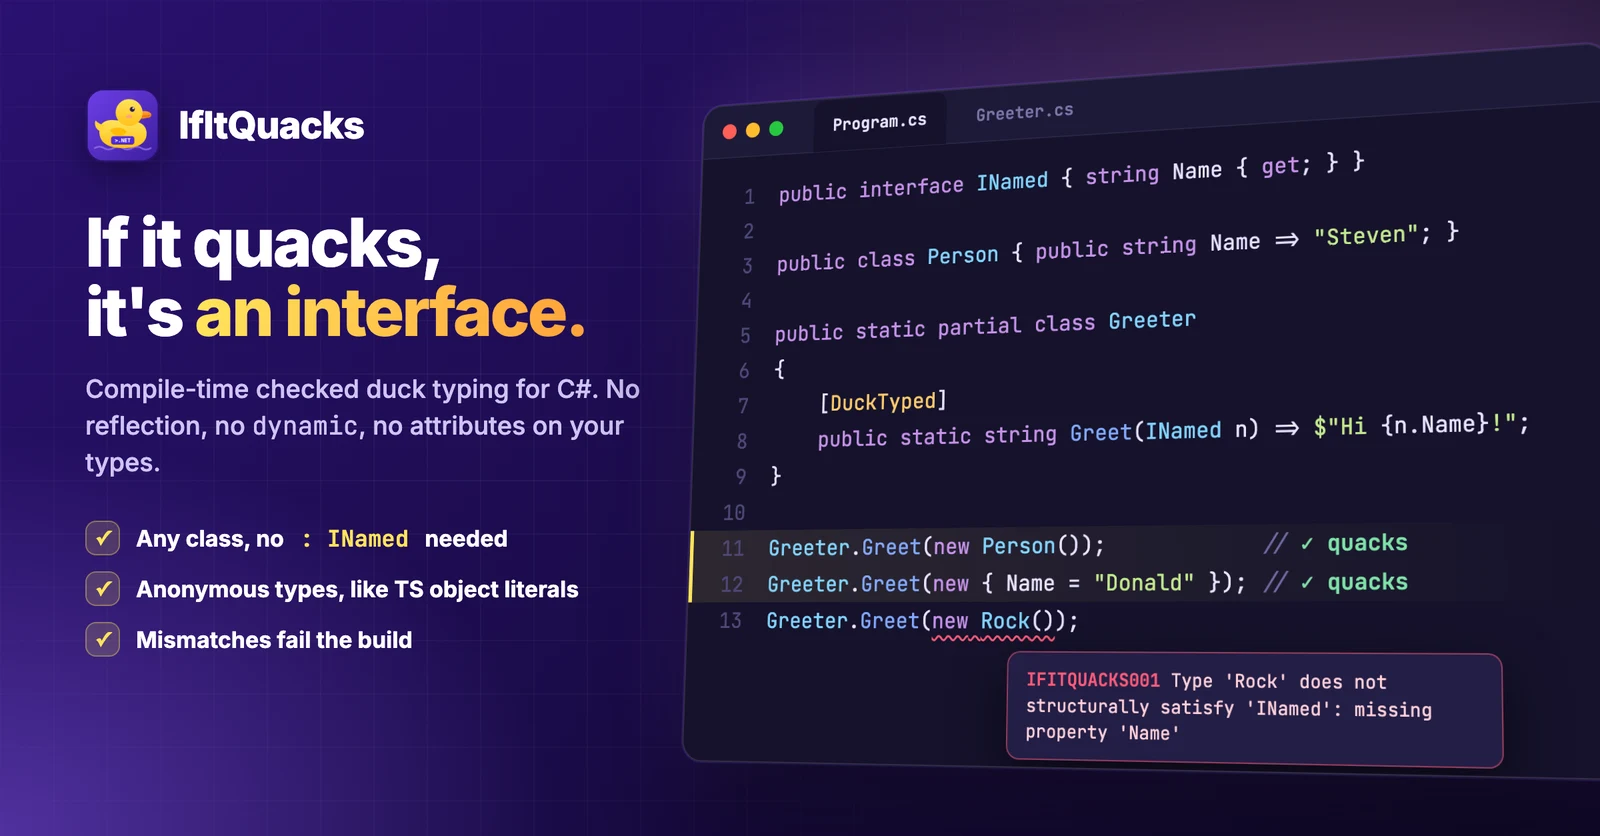
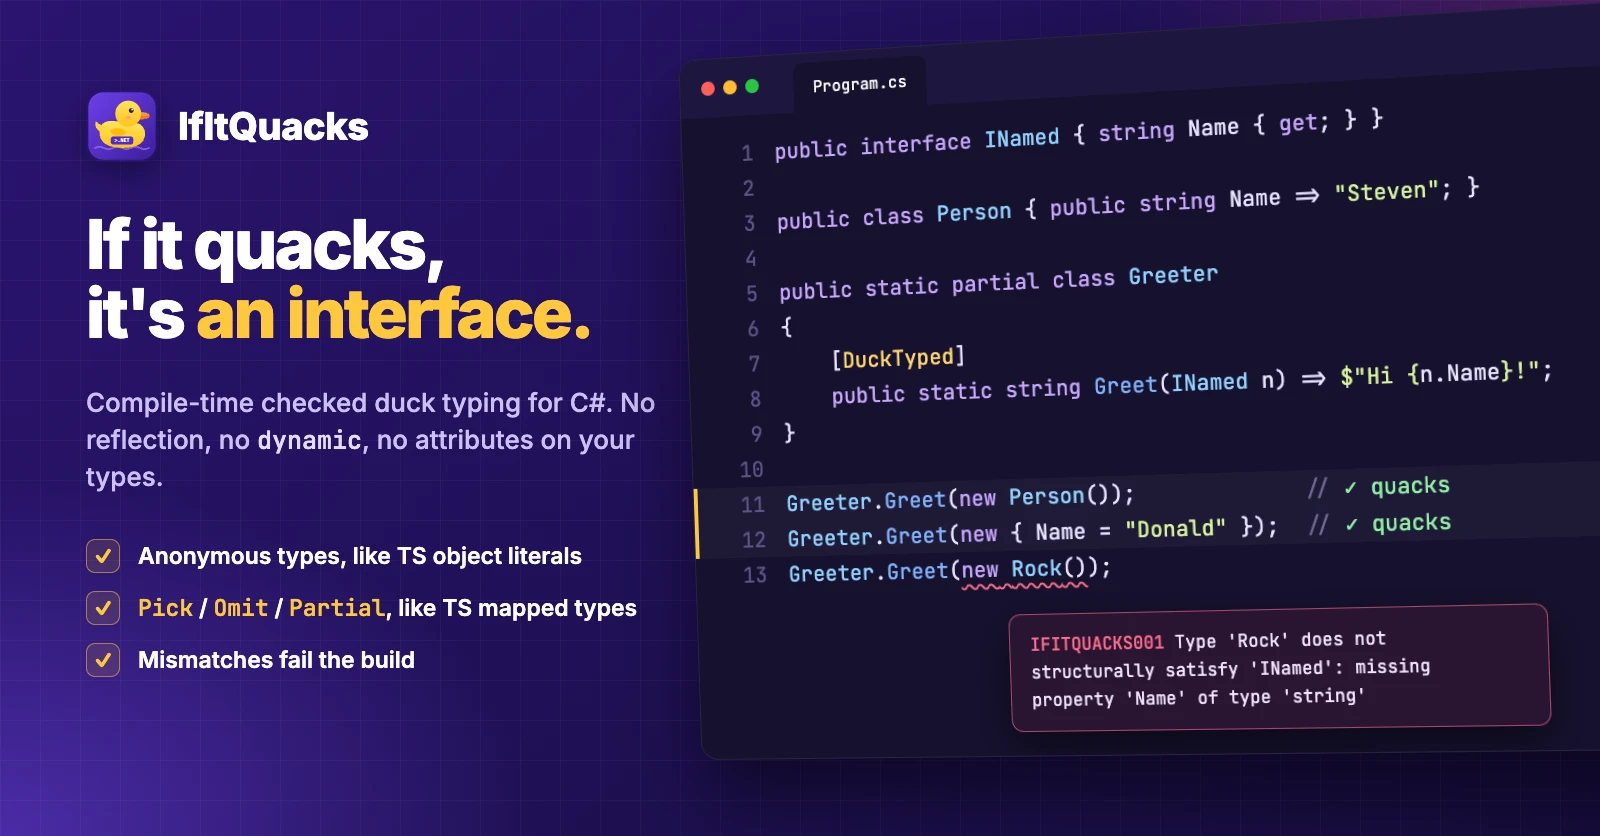
docs: New picture and compiler benchmarks

diff --git a/benchmarks/IfItQuacks.Generator.Benchmarks/GeneratorBenchmarks.cs b/benchmarks/IfItQuacks.Generator.Benchmarks/GeneratorBenchmarks.cs
@@ -1,0 +1,126 @@
+using System.Globalization;
+using System.Text;
+using BenchmarkDotNet.Attributes;
+using Microsoft.CodeAnalysis;
+using Microsoft.CodeAnalysis.CSharp;
+
+namespace IfItQuacks.Generator.Benchmarks;
+
+public enum Scenario
+{
+    NoDuckTyping,
+    DistinctTypes,
+    SameTypeCallSites,
+    DuckAs,
+}
+
+[MemoryDiagnoser]
+public class GeneratorBenchmarks
+{
+    private static readonly CSharpParseOptions ParseOptions = new CSharpParseOptions(LanguageVersion.Preview)
+        .WithFeatures([
+            new KeyValuePair<string, string>("InterceptorsPreviewNamespaces", "IfItQuacks.Generated"),
+            new KeyValuePair<string, string>("InterceptorsNamespaces", "IfItQuacks.Generated"),
+        ]);
+
+    private static readonly MetadataReference[] References = ((string)AppContext.GetData("TRUSTED_PLATFORM_ASSEMBLIES")!)
+        .Split(Path.PathSeparator)
+        .Where(path => path.Contains("Microsoft.NETCore.App", StringComparison.Ordinal))
+        .Select(path => (MetadataReference)MetadataReference.CreateFromFile(path))
+        .ToArray();
+
+    private CSharpCompilation _compilation = null!;
+    private CSharpCompilation _edited = null!;
+    private GeneratorDriver _warmDriver = null!;
+
+    [Params(1, 10, 100, 1000)]
+    public int N { get; set; }
+
+    [ParamsAllValues]
+    public Scenario Scenario { get; set; }
+
+    [GlobalSetup]
+    public void Setup()
+    {
+        _compilation = CSharpCompilation.Create(
+            "Bench",
+            [Parse(Source(Scenario, N)), Parse("public class Unrelated { }")],
+            References,
+            new CSharpCompilationOptions(OutputKind.DynamicallyLinkedLibrary));
+
+        _edited = _compilation.ReplaceSyntaxTree(
+            _compilation.SyntaxTrees[^1],
+            Parse("public class Unrelated { public void M() => System.Console.WriteLine(1); }"));
+
+        _warmDriver = CreateDriver().RunGenerators(_compilation);
+
+        CreateDriver().RunGeneratorsAndUpdateCompilation(_compilation, out var output, out var generatorDiagnostics);
+        var errors = generatorDiagnostics.Concat(output.GetDiagnostics()).Where(d => d.Severity == DiagnosticSeverity.Error).ToList();
+        if (errors.Count > 0)
+        {
+            throw new InvalidOperationException(string.Join(Environment.NewLine, errors));
+        }
+    }
+
+    // Clone drops the bound symbols a previous iteration cached, so each run pays the full cost of a fresh build.
+    [Benchmark]
+    public GeneratorDriver ColdRun() => CreateDriver().RunGenerators(_compilation.Clone());
+
+    [Benchmark]
+    public GeneratorDriver IncrementalRun() => _warmDriver.RunGenerators(_edited);
+
+    [Benchmark(Baseline = true)]
+    public int CompileWithoutGenerator() => _compilation.Clone().GetDiagnostics().Length;
+
+    [Benchmark]
+    public int CompileWithGenerator()
+    {
+        CreateDriver().RunGeneratorsAndUpdateCompilation(_compilation.Clone(), out var output, out _);
+        return output.GetDiagnostics().Length;
+    }
+
+    private static CSharpGeneratorDriver CreateDriver() =>
+        CSharpGeneratorDriver.Create([new IfItQuacksGenerator().AsSourceGenerator()], parseOptions: ParseOptions);
+
+    private static SyntaxTree Parse(string source) => CSharpSyntaxTree.ParseText(source, ParseOptions);
+
+    private static string Source(Scenario scenario, int n)
+    {
+        var source = new StringBuilder("""
+            using IfItQuacks;
+
+            public interface INamed { string Name { get; } }
+
+            public static partial class Greeter
+            {
+                [DuckTyped]
+                public static string Greet(INamed named) => named.Name;
+
+                public static string Plain(object value) => value.ToString()!;
+            }
+
+            """);
+
+        var typeCount = scenario == Scenario.SameTypeCallSites ? 1 : n;
+        for (var i = 0; i < typeCount; i++)
+        {
+            source.AppendLine(CultureInfo.InvariantCulture, $"public class Type{i} {{ public string Name => \"{i}\"; }}");
+        }
+
+        source.AppendLine("public static class Entry {");
+        for (var i = 0; i < n; i++)
+        {
+            var call = scenario switch
+            {
+                Scenario.NoDuckTyping => $"Greeter.Plain(new Type{i}());",
+                Scenario.DistinctTypes => $"Greeter.Greet(new Type{i}());",
+                Scenario.SameTypeCallSites => "Greeter.Greet(new Type0());",
+                Scenario.DuckAs => $"Duck.As<INamed>(new Type{i}());",
+                _ => throw new ArgumentOutOfRangeException(nameof(scenario)),
+            };
+            source.AppendLine(CultureInfo.InvariantCulture, $"public static object Run{i}() => {call}");
+        }
+
+        return source.AppendLine("}").ToString();
+    }
+}

diff --git a/benchmarks/IfItQuacks.Generator.Benchmarks/Program.cs b/benchmarks/IfItQuacks.Generator.Benchmarks/Program.cs
@@ -1,0 +1,3 @@
+using BenchmarkDotNet.Running;
+
+BenchmarkSwitcher.FromAssembly(typeof(IfItQuacks.Generator.Benchmarks.GeneratorBenchmarks).Assembly).Run(args);

diff --git a/docs/site/articles/benchmarks.md b/docs/site/articles/benchmarks.md
@@ -42,7 +42,7 @@ What this says:
 ## One method, several shapes
 
 An interface parameter is not automatically slow. If exactly one shape reaches it, the JIT guesses the
-target and the call is as fast as a direct one - that is what the `588 ns` row above shows. The guess is
+target and the call is as fast as a direct one - that is what the `563 ns` row above shows. The guess is
 what breaks when several shapes share a method, and it is the case a constrained type parameter is built
 for: each shape gets its own specialized copy, so there is nothing left to guess.
 
@@ -89,6 +89,38 @@ What this says:
 - **Reading through a view costs ~15-20% over touching the entity directly**, the same as reading through any interface. That is the price of the interface call, not of IfItQuacks.
 - **Creating the view dominates.** If you read a few members once, the conversion is the expensive part; if you keep the view and read it repeatedly, the per-read cost is what the third row shows.
 - It is not a mapper, though: a view forwards to the live entity and can't rename members, flatten nested objects or convert types. See [Known limitations](known_limitations.md#members-match-by-name-and-assignable-type).
+
+## Compile-time cost
+
+What the generator adds to your build. The benchmarks live in `benchmarks/IfItQuacks.Generator.Benchmarks`:
+
+```bash
+dotnet run --project benchmarks/IfItQuacks.Generator.Benchmarks -c Release -- --filter '*'
+```
+
+Each scenario generates a project with **N** call sites, each in its own method:
+
+- *distinct types*: N classes, each passed once to a `[DuckTyped]` method (N adapters)
+- *same type*: one class passed from N call sites (1 adapter, N interceptors)
+- *`Duck.As`*: N classes converted with `Duck.As<INamed>`
+
+Time spent for 1000 call sites, and per call site (`--job short`, so expect ±20%):
+
+| Scenario | Generator, full build | Generator, after an edit | Build with vs. without IfItQuacks |
+|---|---:|---:|---:|
+| No duck typing (baseline) | 3.8 ms | 0.8 ms | 31 ms vs. 24 ms |
+| Distinct types | 64 ms · **64 µs** | 73 ms · 73 µs | 468 ms vs. 64 ms · **0.40 ms** |
+| Same type | 47 ms · **47 µs** | 21 ms · 21 µs | 300 ms vs. 16 ms · **0.28 ms** |
+| `Duck.As` | 64 ms · **64 µs** | 27 ms · 27 µs | 505 ms vs. 51 ms · **0.45 ms** |
+
+What this says:
+
+- **A project that doesn't use duck typing pays almost nothing**: the generator scans the syntax trees and finds nothing to do. The attributes it always adds cost a fixed ~5 ms per build.
+- **The generator itself costs about 50-70 µs per call site.** It runs the checks and emits the adapter and the interceptor.
+- **Most of the cost is compiling the generated code**, about 0.3-0.45 ms per duck-typed call site in total. As a rough guide, 100 call sites add ~40 ms to a build, and 1000 add ~0.4 s.
+- **Editing any file re-analyzes every call site**, because the analysis depends on the whole compilation. Only the output is cached. In the IDE this costs tens of microseconds per call site on each change.
+
+To measure your own project, build with `dotnet build -bl` and open the binlog in the [MSBuild Structured Log Viewer](https://msbuildlog.com/): the `Csc` task lists the time spent in each generator. `dotnet build -p:ReportAnalyzer=true -v:d` prints the same numbers to the console.
 
 ## Rules of thumb
 

diff --git a/README.md b/README.md
@@ -160,6 +160,7 @@ Duck.Unwrap(Duck.As<INamed>(person)) is Person;          // true
 - `static abstract` members and operators through duck-typed constraints (`where T : IAddable<T>`), generic math included
 - Instance and static methods, `ref`/`out`, `params`, default values and named arguments
 - Zero setup: install the package, no project file changes
+- Cheap at build time: ~0.4 ms per duck-typed call site, nearly nothing when unused ([Benchmarks](https://linkdotnet.github.io/IfItQuacks/articles/benchmarks.html#compile-time-cost))
 
 ## Documentation
 
